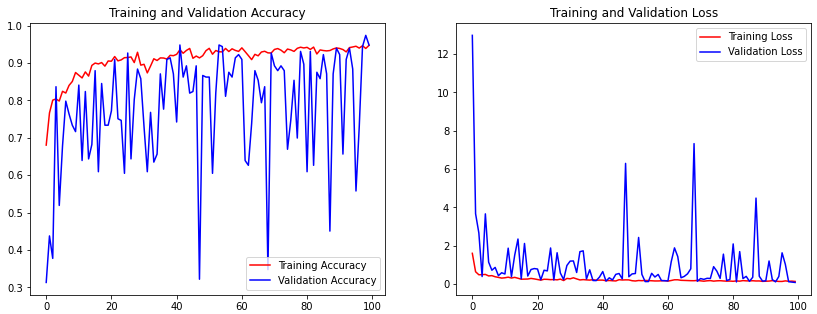
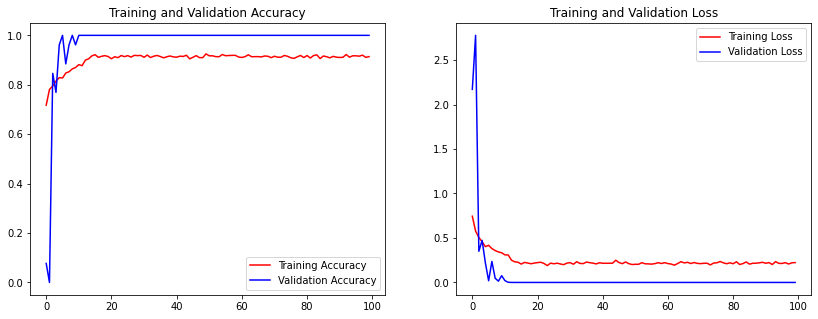
edit readme and sprint project

diff --git a/README.md b/README.md
@@ -52,40 +52,42 @@ Model yang digunakan adalah Alexnet Model
   - Summary</br>
     <img src="assets/alexnetArsitektur.png" width="500"/>
   - Confution matriks evaluation</br>
-    <img src="assets/alexnetMatrix.png" width="500"/>
+    <img src="assets/alexnetconmtrx.png" width="500"/>
   - grafik akurasi dan loss</br>
-    <img src="assets/alexnetAccLoss.png" width="500"/>
+    <img src="assets/alexnetaccloss.png" width="500"/>
   - Classification Report</br>
     |                      | precision | recall | f1-score | support |
     |----------------------|-----------|--------|----------|---------|
-    | Cercospora           | 0.64      | 0.94   | 0.76     | 405     |
+    | Cercospora           | 0.84      | 0.74   | 0.79     | 405     |
     | Common_rust          | 1.00      | 1.00   | 1.00     | 942     |
-    | Northern_Leaf_Blight | 0.97      | 0.72   | 0.82     | 779     |
-    | Corn_healthy         | 0.98      | 1.00   | 0.99     | 918     |
+    | Northern_Leaf_Blight | 0.87      | 0.93   | 0.90     | 779     |
+    | Corn_healthy         | 0.99      | 0.99   | 0.99     | 556     |
     |                      |           |        |          |         |
-    | macro avg            | 0.90      | 0.91   | 0.89     | 3044    |
-    | weighted avg         | 0.94      | 0.92   | 0.92     | 3044    |
-    | accuracy             |           |        | 0.92     | 3044    |
-- Model 2 (Alexnet Hyper Parameter)
-  - Summary</br>
-    <img src="assets/alexnetArsitektur.png" width="500"/>
+    | macro avg            | 0.93      | 0.92   | 0.92     | 2682    |
+    | weighted avg         | 0.94      | 0.94   | 0.94     | 2682    |
+    | accuracy             |           |        | 0.94     | 2682    |
+- Model 2 (Densenet201)
   - matriks evaluation</br>
-    <img src="assets/alexnetHparamMatrix.png" width="500"/>
+    <img src="assets/densenetconmtrx.png" width="500"/>
   - grafik akurasi dan loss</br>
-    <img src="assets/alexnetHparamAccLoss.png" width="500"/>
+    <img src="assets/densenetaccloss.png" width="500"/>
   - Classification Report</br>
     |                      | precision | recall | f1-score | support |
     |----------------------|-----------|--------|----------|---------|
-    | Cercospora           | 0.86      | 0.78   | 0.82     | 405     |
-    | Common_rust          | 1.00      | 0.99   | 1.00     | 942     |
-    | Northern_Leaf_Blight | 0.91      | 0.91   | 0.91     | 779     |
-    | Corn_healthy         | 0.96      | 1.00   | 0.98     | 918     |
+    | Cercospora           | 0.89      | 0.83   | 0.86     | 405     |
+    | Common_rust          | 0.99      | 0.99   | 0.99     | 942     |
+    | Northern_Leaf_Blight | 0.91      | 0.94   | 0.93     | 779     |
+    | Corn_healthy         | 1.00      | 1.00   | 1.00     | 918     |
     |                      |           |        |          |         |
-    | macro avg            | 0.93      | 0.92   | 0.93     | 3044    |
-    | weighted avg         | 0.95      | 0.95   | 0.95     | 3044    |
-    | accuracy             |           |        | 0.95     | 3044    |
+    | macro avg            | 0.95      | 0.94   | 0.95     | 3044    |
+    | weighted avg         | 0.96      | 0.96   | 0.96     | 3044    |
+    | accuracy             |           |        | 0.96     | 3044    |
 ## Predict pada sample data
-On Going
+Model yang digunakan adalah Alexnet Model
+- Model 1 (Alexnet)
+  <img src="assets/testalexnet.png"/>
+- Model 2 (Densenet201Model)
+  <img src="assets/testdensenet.png"/>
 
 ## Sumber Referensi
  - [Dataset : Plant Leaf Diseases](https://data.mendeley.com/datasets/tywbtsjrjv/1)
